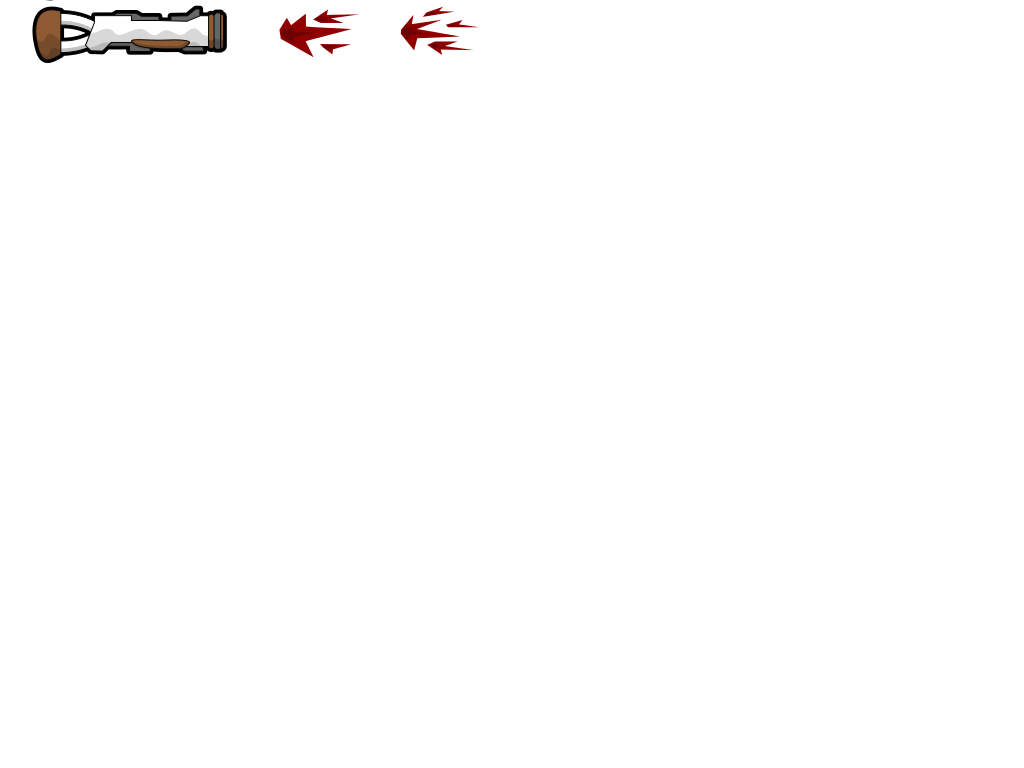
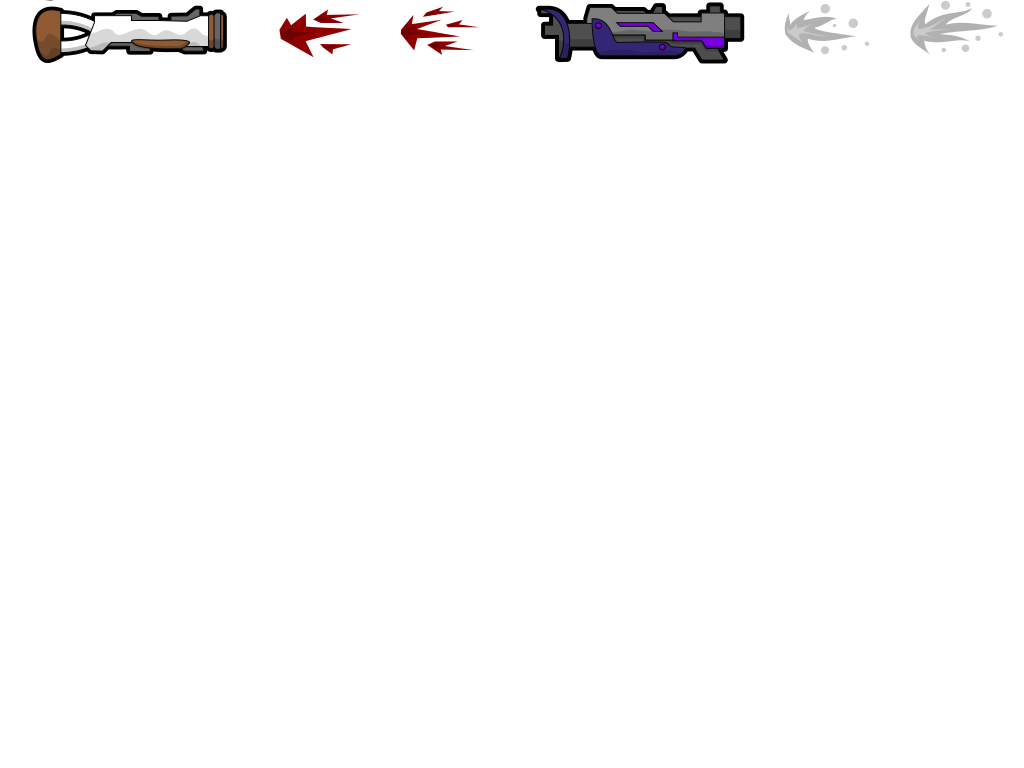
some fix, add weapons set magitech

Changed region(s): [[0.5, 0.0, 0.8438, 0.0938], [0.875, 0.0, 0.9688, 0.0625]]

diff --git a/datasrc/content.py b/datasrc/content.py
@@ -261,20 +261,14 @@ image_sidebaricons = Image("sidebaricons", "ui/icons/sidebar.png", 1)
 image_chatwhisper = Image("chatwhisper", "ui/icons/chat_whisper.png", 1)
 image_timerclock = Image("timerclock", "ui/icons/timer_clock.png", 1)
 
-image_relax = Image("mmoeffect", "mmotee/effx/relax.png")
-image_teleport = Image("teleporteffect", "mmotee/effx/teleport.png")
-image_wingit19 = Image("wingsit19", "mmotee/wings/it19.png")
-image_wingit20 = Image("wingsit20", "mmotee/wings/it20.png")
-image_wingit21 = Image("wingsit21", "mmotee/wings/it21.png")
-image_wingit22 = Image("wingsit22", "mmotee/wings/it22.png")
-image_wingit23 = Image("wingsit23", "mmotee/wings/it23.png")
+image_relax = Image("relax", "mmotee/effx/relax.png")
+image_teleport = Image("teleport", "mmotee/effx/teleport.png")
 image_mmogame = Image("mmogame", "mmotee/mmogame.png")
 image_mmohammer = Image("mmohammer", "mmotee/weapons/mmohammer.png")
 image_mmogun = Image("mmogun", "mmotee/weapons/mmogun.png")
 image_mmoshotgun = Image("mmoshotgun", "mmotee/weapons/mmoshotgun.png")
 image_mmogrenade = Image("mmogrenade", "mmotee/weapons/mmogrenade.png")
 image_mmorifle = Image("mmorifle", "mmotee/weapons/mmorifle.png")
-image_mmologo = Image("mmologo", "mmotee/logo.png")
 
 ###############################################################################
 ###############################################################################
@@ -309,18 +303,18 @@ container.images.Add(image_timerclock)
 # mmotee
 container.images.Add(image_relax)
 container.images.Add(image_teleport)
-container.images.Add(image_wingit19)
-container.images.Add(image_wingit20)
-container.images.Add(image_wingit21)
-container.images.Add(image_wingit22)
-container.images.Add(image_wingit23)
 container.images.Add(image_mmogame)
 container.images.Add(image_mmohammer)
 container.images.Add(image_mmogun)
 container.images.Add(image_mmoshotgun)
 container.images.Add(image_mmogrenade)
 container.images.Add(image_mmorifle)
-container.images.Add(image_mmologo)
+container.images.Add(Image("wingsit19", "mmotee/wings/it19.png"))
+container.images.Add(Image("wingsit20", "mmotee/wings/it20.png"))
+container.images.Add(Image("wingsit21", "mmotee/wings/it21.png"))
+container.images.Add(Image("wingsit22", "mmotee/wings/it22.png"))
+container.images.Add(Image("wingsit23", "mmotee/wings/it23.png"))
+container.images.Add(Image("mmologo", "mmotee/logo.png"))
 
 container.pickups.Add(Pickup("health"))
 container.pickups.Add(Pickup("armor"))
@@ -330,8 +324,6 @@ container.pickups.Add(Pickup("laser"))
 container.pickups.Add(Pickup("ninja", 90, 90))
 container.pickups.Add(Pickup("gun"))
 container.pickups.Add(Pickup("hammer"))
-
-# mpickups
 
 ###############################################################################
 ###############################################################################
@@ -365,18 +357,12 @@ set_timerclock = SpriteSet("timerclock", image_timerclock, 1, 2)
 # mmotee
 set_relax = SpriteSet("relax", image_relax, 2, 1)
 set_teleport = SpriteSet("teleport", image_teleport, 8, 1)
-set_wingsit19 = SpriteSet("wingsit19", image_wingit19, 1, 1)
-set_wingsit20 = SpriteSet("wingsit20", image_wingit20, 1, 1)
-set_wingsit21 = SpriteSet("wingsit21", image_wingit21, 1, 1)
-set_wingsit22 = SpriteSet("wingsit22", image_wingit22, 1, 1)
-set_wingsit23 = SpriteSet("wingsit23", image_wingit23, 1, 1)
 set_mmogame = SpriteSet("mmogame", image_mmogame, 16, 8)
 set_mmohammer = SpriteSet("mmohammer", image_mmohammer, 8, 4)
 set_mmogun = SpriteSet("mmogun", image_mmogun, 18, 8)
 set_mmoshotgun = SpriteSet("mmoshotgun", image_mmoshotgun, 16, 12)
 set_mmogrenade = SpriteSet("mmogrenade", image_mmogrenade, 4, 6)
-set_mmorifle = SpriteSet("mmorifle", image_mmogrenade, 4, 6)
-set_mmologo = SpriteSet("mmologo", image_mmologo, 1, 1)
+set_mmorifle = SpriteSet("mmorifle", image_mmorifle, 4, 6)
 
 ###############################################################################
 ###############################################################################
@@ -410,18 +396,12 @@ container.spritesets.Add(set_timerclock)
 # mmotee
 container.spritesets.Add(set_relax)
 container.spritesets.Add(set_teleport)
-container.spritesets.Add(set_wingsit19)
-container.spritesets.Add(set_wingsit20)
-container.spritesets.Add(set_wingsit21)
-container.spritesets.Add(set_wingsit22)
-container.spritesets.Add(set_wingsit23)
 container.spritesets.Add(set_mmogame)
 container.spritesets.Add(set_mmohammer)
 container.spritesets.Add(set_mmogun)
 container.spritesets.Add(set_mmoshotgun)
 container.spritesets.Add(set_mmogrenade)
 container.spritesets.Add(set_mmorifle)
-container.spritesets.Add(set_mmologo)
 
 container.sprites.Add(Sprite("part_slice", set_particles, 0,0,1,1))
 container.sprites.Add(Sprite("part_ball", set_particles, 1,0,1,1))
@@ -641,6 +621,13 @@ container.sprites.Add(Sprite("sidebar_info_b", set_sidebaricons, 3,1,1,1))
 container.sprites.Add(Sprite("timerclock_a", set_timerclock, 0,0,1,1))
 container.sprites.Add(Sprite("timerclock_b", set_timerclock, 0,1,1,1))
 #mmotee
+container.sprites.Add(Sprite("relax_heart", set_relax, 0, 0, 1, 1))
+container.sprites.Add(Sprite("relax_eyes", set_relax, 1, 0, 1, 1))
+
+# teleports frames
+for i in range(1, 9):
+	container.sprites.Add(Sprite("teleport"+str(i), set_teleport, i-1, 0, 1, 1))
+  
 container.sprites.Add(Sprite("mmo_game_box", set_mmogame, 0, 0, 1, 1))
 container.sprites.Add(Sprite("mmo_game_experience", set_mmogame, 1, 0, 1, 1))
 container.sprites.Add(Sprite("mmo_game_plant", set_mmogame, 2, 0, 1, 1))
@@ -648,32 +635,35 @@ container.sprites.Add(Sprite("mmo_game_ores", set_mmogame, 3, 0, 1, 1))
 container.sprites.Add(Sprite("mmo_game_arrow", set_mmogame, 4, 0, 1, 1))
 container.sprites.Add(Sprite("mmo_game_bubble_fire", set_mmogame, 1, 3, 1, 1))
 
-#mmotee hammer
-container.sprites.Add(Sprite("mmo_hammer_thoor", set_mmohammer, 0, 0, 1, 1))
+  
+#mmotee hammer [8 weapon] on 1 line
+container.sprites.Add(Sprite("mmo_hammer_heaven", set_mmohammer, 0, 0, 1, 1)) # +1 weapon
+container.sprites.Add(Sprite("mmo_hammer_magitech", set_mmohammer, 1, 0, 1, 1))
 
-#mmotee gun
-container.sprites.Add(Sprite("mmo_gun_thoor", set_mmogun, 0, 0, 2, 1))
-container.sprites.Add(Sprite("mmo_gun_thoor_muzzle1", set_mmogun, 2, 0, 2, 1))
-container.sprites.Add(Sprite("mmo_gun_thoor_muzzle2", set_mmogun, 4, 0, 2, 1))
+#mmotee gun [3 weapon] on 1 line
+container.sprites.Add(Sprite("mmo_gun_heaven", set_mmogun, 0, 0, 2, 1)) # +2 weapon
+container.sprites.Add(Sprite("mmo_gun_heaven_muzzle1", set_mmogun, 2, 0, 2, 1)) # +2 muzzle
+container.sprites.Add(Sprite("mmo_gun_heaven_muzzle2", set_mmogun, 4, 0, 2, 1))
+container.sprites.Add(Sprite("mmo_gun_magitech", set_mmogun, 6, 0, 2, 1))
+container.sprites.Add(Sprite("mmo_gun_magitech_muzzle1", set_mmogun, 8, 0, 2, 1))
+container.sprites.Add(Sprite("mmo_gun_magitech_muzzle2", set_mmogun, 10, 0, 2, 1))
 
-#mmotee shotgun
-container.sprites.Add(Sprite("mmo_shotgun_thoor", set_mmoshotgun, 0, 0, 4, 1))
-container.sprites.Add(Sprite("mmo_shotgun_thoor_muzzle1", set_mmoshotgun, 4, 0, 2, 1))
-container.sprites.Add(Sprite("mmo_shotgun_thoor_muzzle2", set_mmoshotgun, 6, 0, 2, 1))
+#mmotee shotgun [2 weapon] on 1 line
+container.sprites.Add(Sprite("mmo_shotgun_heaven", set_mmoshotgun, 0, 0, 4, 1)) # +4 weapon
+container.sprites.Add(Sprite("mmo_shotgun_heaven_muzzle1", set_mmoshotgun, 4, 0, 2, 1)) # +2 muzzle
+container.sprites.Add(Sprite("mmo_shotgun_heaven_muzzle2", set_mmoshotgun, 6, 0, 2, 1))
+container.sprites.Add(Sprite("mmo_shotgun_magitech", set_mmoshotgun, 8, 0, 4, 1))
+container.sprites.Add(Sprite("mmo_shotgun_magitech_muzzle1", set_mmoshotgun, 12, 0, 2, 1))
+container.sprites.Add(Sprite("mmo_shotgun_magitech_muzzle2", set_mmoshotgun, 14, 0, 2, 1))
 
-#mmotee grenade
-container.sprites.Add(Sprite("mmo_grenade_thoor", set_mmogrenade, 0, 0, 1, 1))
+#mmotee grenade [4 weapon] on 1 line
+container.sprites.Add(Sprite("mmo_grenade_heaven", set_mmogrenade, 0, 0, 1, 1)) # +1 weapon
+container.sprites.Add(Sprite("mmo_grenade_magitech", set_mmogrenade, 1, 0, 1, 1))
 
-#mmotee rifle
-container.sprites.Add(Sprite("mmo_rifle_thoor", set_mmorifle, 0, 0, 1, 1))
+#mmotee rifle [4 weapon] on 1 line
+container.sprites.Add(Sprite("mmo_rifle_heaven", set_mmorifle, 0, 0, 1, 1)) # +1 weapon
+container.sprites.Add(Sprite("mmo_rifle_magitech", set_mmorifle, 1, 0, 1, 1))
 
-
-container.sprites.Add(Sprite("relax_heart", set_relax, 0, 0, 1, 1))
-container.sprites.Add(Sprite("relax_eyes", set_relax, 1, 0, 1, 1))
-
-# teleports frames
-for i in range(1, 9):
-	container.sprites.Add(Sprite("teleport"+str(i), set_teleport, i-1, 0, 1, 1))
 	
 ###############################################################################
 ###############################################################################

diff --git a/src/game/client/components/particles.cpp b/src/game/client/components/particles.cpp
@@ -226,7 +226,7 @@ void CParticles::RenderMmoEffect(int Group)
 	if (Group == GROUP_MMOEFFECTS)
 	{
 		Graphics()->BlendNormal();
-		Graphics()->TextureSet(g_pData->m_aImages[IMAGE_MMOEFFECT].m_Id);
+		Graphics()->TextureSet(g_pData->m_aImages[IMAGE_RELAX].m_Id);
 		Graphics()->QuadsBegin();
 
 		int i = m_aFirstPart[Group];
@@ -253,7 +253,7 @@ void CParticles::RenderMmoEffect(int Group)
 	if (Group == GROUP_TELEPORT)
 	{
 		Graphics()->BlendNormal();
-		Graphics()->TextureSet(g_pData->m_aImages[IMAGE_TELEPORTEFFECT].m_Id);
+		Graphics()->TextureSet(g_pData->m_aImages[IMAGE_TELEPORT].m_Id);
 		Graphics()->QuadsBegin();
 
 		int i = m_aFirstPart[Group];
